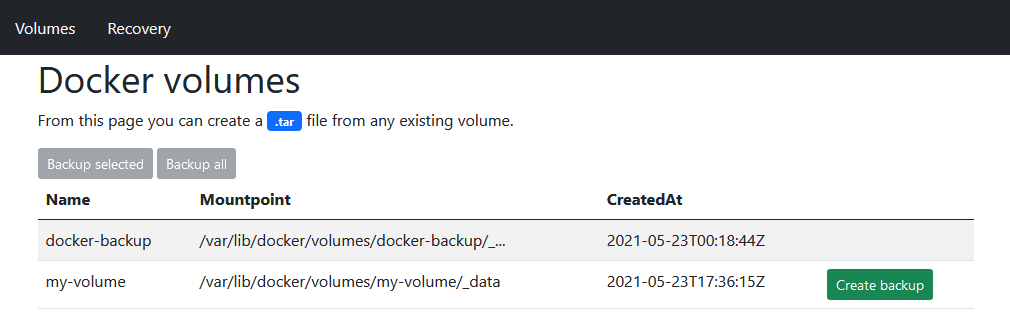
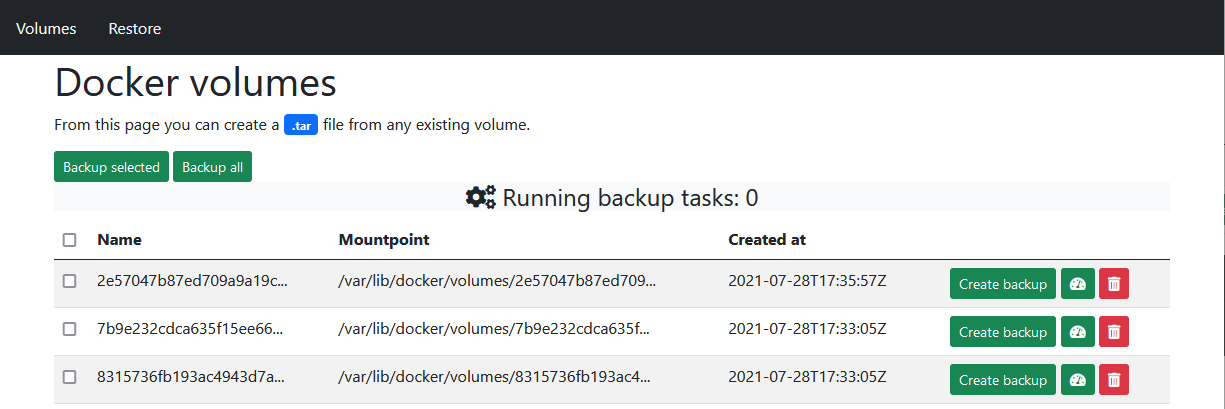
Update README

diff --git a/README.md b/README.md
@@ -8,11 +8,13 @@ Create a volume called `docker-backup` and configure `/path/to/files` to be a fo
 ```shell
 $ docker volume create --opt type=none --opt o=bind --opt device=/path/to/files docker-backup
 ```
- Map the volume created and the docker socket.
+Bind the volume created and the docker socket.
 
 ```shell
 $ docker run -d --rm -p 3000:3000 -v docker-backup:/backup -v /var/run/docker.sock:/var/run/docker.sock nu12/volume-backup-tool
 ```
+
+Optionally, use `-e PASSWORD=your-password` to enable authentication.
 
 ## Usage
 
@@ -20,7 +22,7 @@ Use the `Volumes` page to view a list of all volumes available. Create a backup 
 
 ![alt text](public/backup.PNG)
 
-In the `Recovery` page you can see all `.tar` files generated. You can also download created files and upload previously downloaded files.
+In the `Restore` page you can see all `.tar` files generated. You can also download created files and upload previously downloaded files.
 
 ![alt text](public/recovery.PNG)
 
